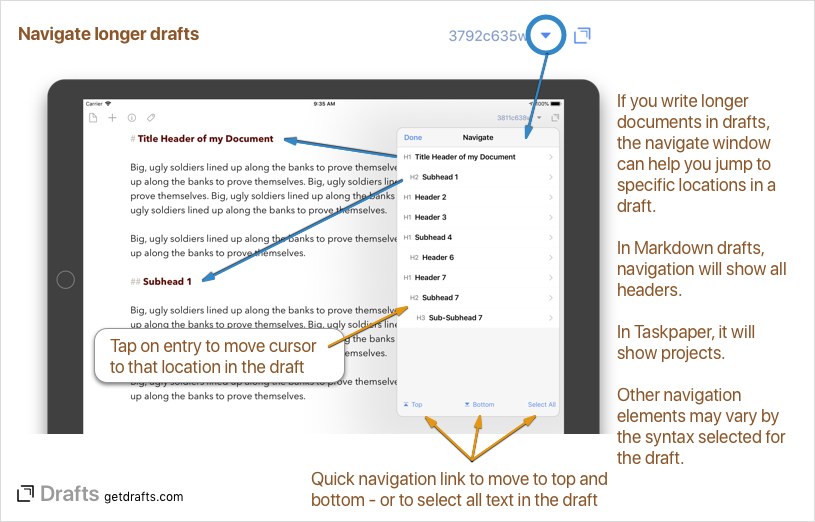
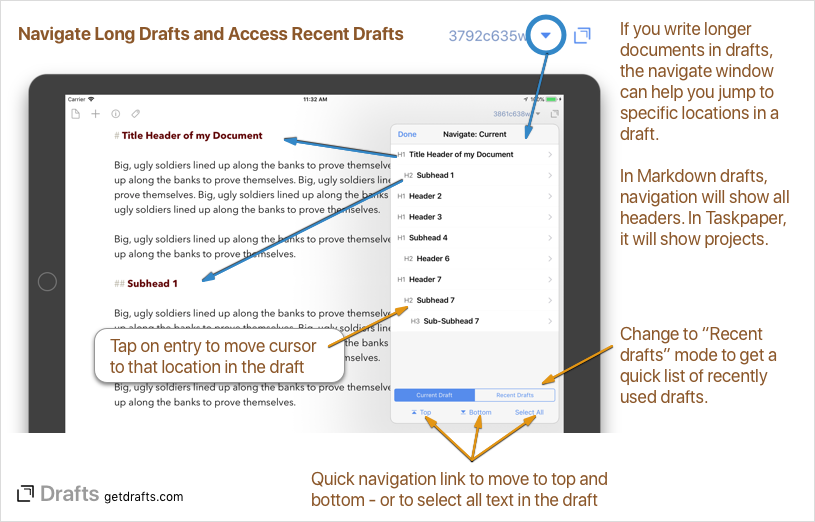
5.2.1 changes

diff --git a/_site/editor/navigation.html b/_site/editor/navigation.html
@@ -7,8 +7,8 @@
     <meta name="apple-itunes-app" content="app-id=1236254471, affiliate-data=at=11l4Cf&amp;ct=web_banner">
     <link rel="icon" href="/images/favicon.png">
 <!-- Begin Jekyll SEO tag v2.3.0 -->
-<title>Navigating Longer Drafts | Drafts</title>
-<meta property="og:title" content="Navigating Longer Drafts" />
+<title>Navigating Long Drafts &amp; Recent Drafts | Drafts</title>
+<meta property="og:title" content="Navigating Long Drafts &amp; Recent Drafts" />
 <meta property="og:locale" content="en_US" />
 <meta name="description" content="Documentation for Drafts 5" />
 <meta property="og:description" content="Documentation for Drafts 5" />
@@ -19,7 +19,7 @@
 <meta name="twitter:site" content="@draftsapp" />
 <meta property="article:publisher" content="https://www.facebook.com/draftsapp" />
 <script type="application/ld+json">
-{"name":null,"description":"Documentation for Drafts 5","author":null,"@type":"WebPage","url":"http://localhost:4000/editor/navigation.html","publisher":null,"image":null,"headline":"Navigating Longer Drafts","dateModified":null,"datePublished":null,"sameAs":null,"mainEntityOfPage":null,"@context":"http://schema.org"}</script>
+{"name":null,"description":"Documentation for Drafts 5","author":null,"@type":"WebPage","url":"http://localhost:4000/editor/navigation.html","publisher":null,"image":null,"headline":"Navigating Long Drafts &amp; Recent Drafts","dateModified":null,"datePublished":null,"sameAs":null,"mainEntityOfPage":null,"@context":"http://schema.org"}</script>
 <!-- End Jekyll SEO tag -->
 
 <meta property="og:image" content="http://getdrafts.com/images/drafts-ogimage.png" />
@@ -96,7 +96,7 @@
 
     <div id="main">
         <div class="header">
-            <h1>Navigating Longer Drafts</h1>
+            <h1>Navigating Long Drafts & Recent Drafts</h1>
         </div>
 
         <div class="content">
@@ -105,6 +105,8 @@
 </div>
 
 <p>If you write longer drafts in a structured format like Markdown, Drafts can help navigate to key locations with the navigate view accessed via the down arrow icon near the top right of the screen.</p>
+
+<p>The navigate view can also be used to quickly navigate to other recently edited drafts.</p>
 
 <div class="doc-image">
 <img src="/images/docs/editor/navigate.png" alt="" />
@@ -119,6 +121,10 @@
   <li><strong>Taskpaper</strong>: And Taskpaper projects, using the “Project Name:” syntax.</li>
   <li><strong>Javascript</strong>: Traditional function declarations in the format “function name() {}”, and region mark comments in the format “// #region RegionName”.</li>
 </ul>
+
+<h3 id="recent-drafts-mode">Recent drafts mode</h3>
+
+<p>You can also select “Recent Drafts” mode in the navigation window to see a list of recently edited drafts. Tap on a draft in this list to load it in the editor. If the navigator finds no marks in the current draft, this mode will be enabled by default in the navigate window, making it a great way to quickly jump back and forth between several drafts.</p>
 
 <h3 id="quick-links">Quick links</h3>
 

diff --git a/_site/changelog.html b/_site/changelog.html
@@ -102,6 +102,23 @@
         <div class="content">
           <p><strong>Also visit the <a href="https://forums.getdrafts.com/c/news">News &amp; Updates Topic</a> on the Community for for update notes.</strong></p>
 
+<h2 id="521">5.2.1</h2>
+
+<ul>
+  <li><strong>New:</strong> <a href="http://getdrafts.com/editor/navigation">Navigate window</a> (access via down arrow at top right) now also offers navigation to recent drafts. Defaults to displaying recent drafts if current draft does not have any identifiable navigation markers.</li>
+  <li><strong>New:</strong> Sprinkle in more user activity registrations.</li>
+  <li><strong>Fix:</strong> Clean up a couple of crashers with unexpected arguments in scripting methods.</li>
+  <li><strong>Fix:</strong> Avoid deadlock running OneDrive append action with a subfolder path configured.</li>
+  <li><strong>Fix:</strong> If the URL provided to Drafts in an x-success parameter did not already have any parameters, return parameters might not get appended correctly.</li>
+  <li><strong>Fix:</strong> Matching projects in Taskpaper syntax should be less greedy matching : in tasks.</li>
+  <li><strong>Fix:</strong> Resuming dictation after editing while paused could lose edits.</li>
+  <li><strong>Fix:</strong> Spotlight in-app search continuation was not configured properly.</li>
+  <li><strong>Fix:</strong> Better handling of more than one watch connected to an iPhone.</li>
+  <li><strong>Fix:</strong> Request refresh of calendar store data before script methods that read from calendars.</li>
+  <li><strong>Fix:</strong> Crash deleting multiple action log entries.</li>
+  <li><strong>Fix:</strong> Crash requesting product information from App Store in poor network conditions.</li>
+</ul>
+
 <h2 id="520">5.2.0</h2>
 
 <h4 id="new-in-52">New in 5.2</h4>

diff --git a/changelog.md b/changelog.md
@@ -4,6 +4,21 @@ title: Changelog
 
 **Also visit the [News & Updates Topic](https://forums.getdrafts.com/c/news) on the Community for for update notes.**
 
+## 5.2.1
+
+- **New:** [Navigate window](http://getdrafts.com/editor/navigation) (access via down arrow at top right) now also offers navigation to recent drafts. Defaults to displaying recent drafts if current draft does not have any identifiable navigation markers.
+- **New:** Sprinkle in more user activity registrations.
+- **Fix:** Clean up a couple of crashers with unexpected arguments in scripting methods.
+- **Fix:** Avoid deadlock running OneDrive append action with a subfolder path configured.
+- **Fix:** If the URL provided to Drafts in an x-success parameter did not already have any parameters, return parameters might not get appended correctly.
+- **Fix:** Matching projects in Taskpaper syntax should be less greedy matching : in tasks.
+- **Fix:** Resuming dictation after editing while paused could lose edits.
+- **Fix:** Spotlight in-app search continuation was not configured properly.
+- **Fix:** Better handling of more than one watch connected to an iPhone.
+- **Fix:** Request refresh of calendar store data before script methods that read from calendars.
+- **Fix:** Crash deleting multiple action log entries.
+- **Fix:** Crash requesting product information from App Store in poor network conditions.
+
 ## 5.2.0
 
 #### New in 5.2

diff --git a/editor/navigation.md b/editor/navigation.md
@@ -1,10 +1,12 @@
 ---
-title: Navigating Longer Drafts
+title: Navigating Long Drafts & Recent Drafts
 ---
 
 {% include back.html title="Editor" path="/editor" %}
 
 If you write longer drafts in a structured format like Markdown, Drafts can help navigate to key locations with the navigate view accessed via the down arrow icon near the top right of the screen.
+
+The navigate view can also be used to quickly navigate to other recently edited drafts.
 
 {% include doc-image.html src="/editor/navigate.png" %}
 
@@ -15,6 +17,10 @@ What marks are found depend on the syntax select for the current draft.  The ini
 - **Markdown**: And Markdown headers using the "#" header syntax. Header levels are identified and indented.
 - **Taskpaper**: And Taskpaper projects, using the "Project Name:" syntax.
 - **Javascript**: Traditional function declarations in the format "function name() {}", and region mark comments in the format "// #region RegionName".
+
+### Recent drafts mode
+
+You can also select "Recent Drafts" mode in the navigation window to see a list of recently edited drafts. Tap on a draft in this list to load it in the editor. If the navigator finds no marks in the current draft, this mode will be enabled by default in the navigate window, making it a great way to quickly jump back and forth between several drafts.
 
 ### Quick links
 
